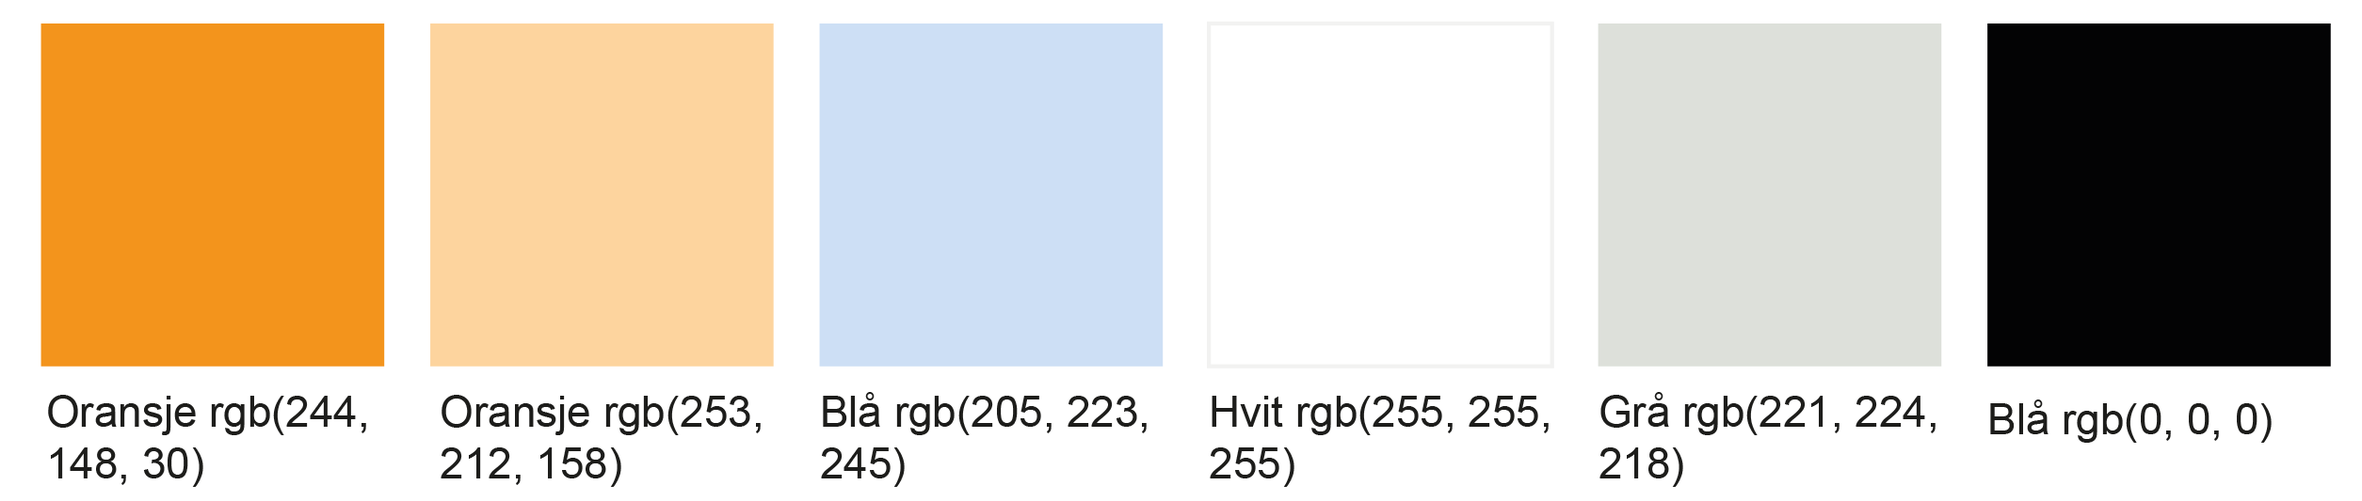
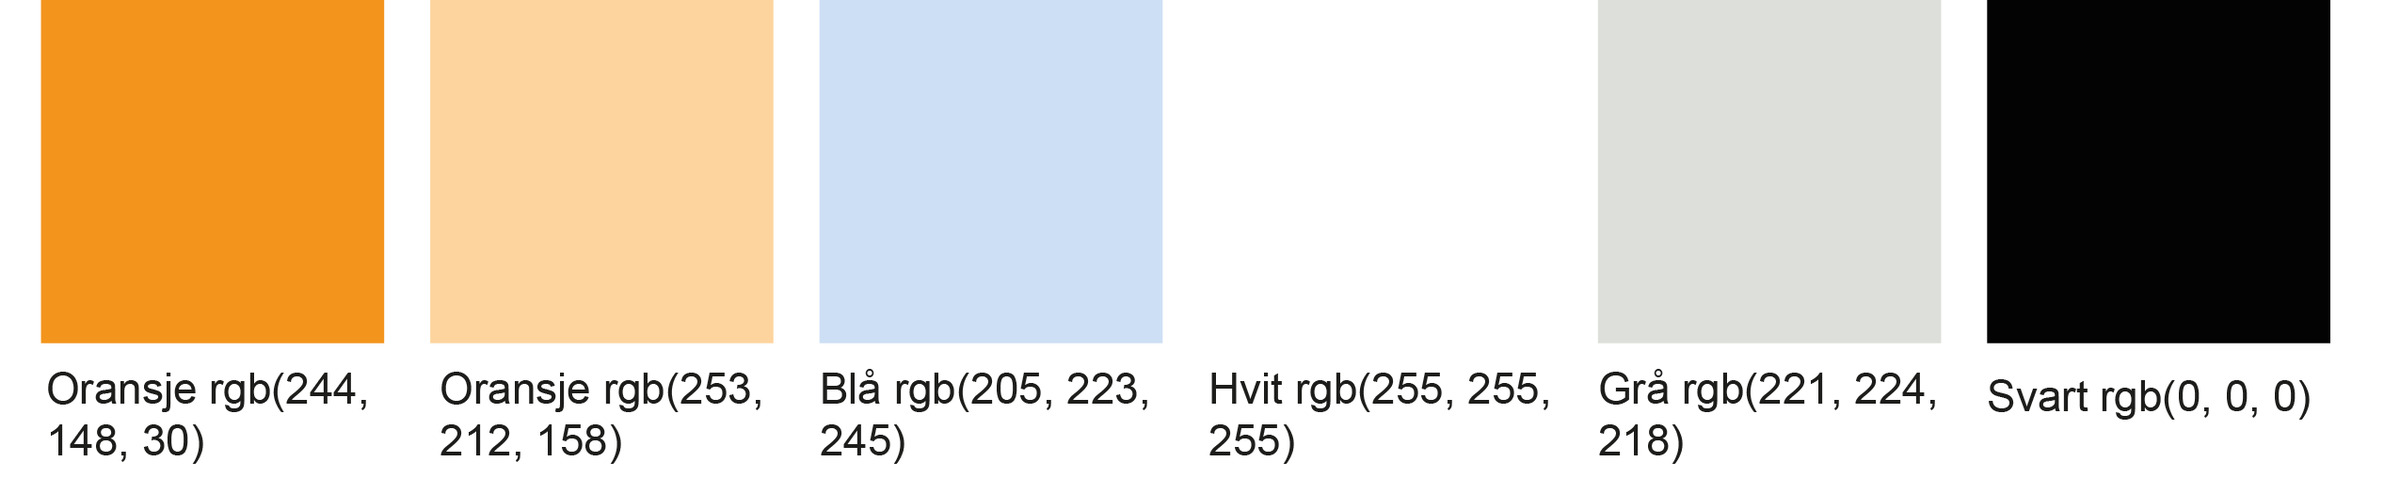
Ferdig

diff --git a/P2/deliverable/p2.html b/P2/deliverable/p2.html
@@ -8,24 +8,25 @@
     <link rel="icon" type="image/png" href="images/P2.png"/>
 </head>
 <body>
+    <header>
+        <h1>Prosjekt P2</h1>
+    </header>
     <div>
         <header>
-            <h1>Prosjekt P2</h1>
+            <h2>Dokumentdetaljer</h2>
         </header>
-        <p class="names"> 
-            Oda Tillman, Sven Herman Holmsen, Maja Meland, Philip Tinius Hansen Crome, 
-            Dag Hara
-        </p>
+        <p class="names"> Oda Tillman, Sven Herman Holmsen, Maja Meland, Philip Tinius Hansen Crome, Dag Hara</p>
+        <p>IT2805 4. oktober 2020</p>
     </div>
     <div>
-        <p>30. september 2020</p>
+        <img id="Johannes" src="images/Johannes.jpg" alt="Bilde av Johannes Haar">
         <header>
             <h2>
                 Administrative detaljer
             </h2>
         </header>
         <p>Klient: Johannes Haar</p>
-        <p>Nettsidenavn: KLPP.</p>
+        <p>Nettsidenavn: <i>KLPP.</i></p>
         <p>Kontaktperson: Johannes Haar</p>
     </div>
 
@@ -35,7 +36,7 @@
                 Formål, mål og brukergruppe
             </h2>
         </header>
-        <p>Johannes Haar har en visjon om å skape en ledende frisørkjede i Trondheim med fokus på kvalitet og service. Målet med nettsiden er å implementere denne visjonen. Den viktigste brukergruppen er kunder. Dette innebærer å lage en enkel og innbydende nettside for førstegangskunder, særlig siden frisørkjeden er i oppstartsfasen. Videre er det viktig at nettsiden klarer å visuelt forsterke profesjonaliteten som herr Haar ønsker å selge til sine kunder. Dette gjør at kunder som ønsker den ekstra kvaliteten tidlig forstår at den fåes på <i>KLPP.</i> Johannes Haar er også interessert i faste kunder. Derfor må nettsiden også ha som formål å være relevant og spennende for personer som har besøkt nettsiden før. Dette skal løses ved at nettsiden viser frem det unike ved <i>KLPP.</i> ved hjelp av bilder og oversiktlighet ved bestillinger. Et annet viktig aspekt er å nå ut til potensielle kolleger. Herr Haar ønsker derfor at nettsiden skal være enkel og naturlig å navigere for fremtidige stylister.</p>
+        <p>Johannes Haar har en visjon om å skape en ledende frisørkjede i Trondheim med fokus på kvalitet og service. Målet med nettsiden er å implementere denne visjonen. Den viktigste brukergruppen er kunder. Dette innebærer å lage en enkel og innbydende nettside for førstegangskunder, særlig siden frisørkjeden er i oppstartsfasen. Videre er det viktig at nettsiden klarer å visuelt forsterke profesjonaliteten som herr Haar ønsker å selge til sine kunder. Dette gjør at kunder som ønsker den ekstra kvaliteten tidlig forstår at den kan fås på <i>KLPP</i>. Johannes Haar er også interessert i faste kunder. Derfor må nettsiden også ha som formål å være relevant og spennende for personer som har besøkt nettsiden før. Dette skal løses ved at nettsiden viser frem det unike ved <i>KLPP.</i> ved hjelp av bilder og oversiktlighet ved bestillinger. Et annet viktig aspekt er å nå ut til potensielle kolleger. Herr Haar ønsker derfor at nettsiden skal være enkel og naturlig å navigere for fremtidige stylister.</p>
     </div>
 
     <div>
@@ -44,10 +45,11 @@
                 Navigasjonsstruktur
             </h2>
         </header>
+        <p>Navigeringsstrukturen på <i>KLPP.</i> sin side er som vist på dette bildet. Hjemmesiden er den første siden som lastes når brukeren kommer inn på klpp.no. Denne hjemmesiden består av en menybar der man kan klikke på navnet på de andre referansesidene man ønsker å besøke. På menybaren er det en knapp for å bestille time, behandlinger, om oss, galleri, søk jobb og COVID-19. Alle disse sidene kan man komme seg til direkte fra hjemmesiden ved et klikk.</p>
+        <p>Denne menybaren vil være synlig øverst på hver eneste referanseside. Derfor vil det være mulig å komme seg fra hvilken som helst referanseside til en annen referanseside kun ved et klikk. Det samme gjelder når man skal komme seg tilbake til hjemmesiden. Klikker man på <i>KLPP.</i>-logoen vil man komme tilbake til hjemmesiden med kun et klikk.</p>
+        <p>Vi har valgt å kun ha klikketstruktur for å komme seg fra en side til en annen fordi dette er en funksjon brukeren enkelt skjønner mønsteret på og derfor blir nettsiden i seg selv enkel å bruke. </p>
         <img id="Navigasjon" src="images/Navigasjonsstruktur.png" alt="Bilde av navigasjonsstrukturen">
-        <p>Navigeringsstrukturen på KLPP. sin siden er som vist på dette bildet. Det vi har tenkt er at når man åpner nettsiden kommer man først till en hovedside. Denne hovedsiden består av en menybar der man kan klikke på navnet på de ulike referansesidene man ønsker å besøke. På menybaren er det en knapp for å bestille time, behandlinger, om oss, galleri, søk jobb og COVID-19. Alle disse sidene kan man komme seg til direkte fra hovedsiden ved et klikk.</p>
-        <p>Denne menybaren vil være synlig øverst på hver eneste referanseside man trykker seg inn på. Derfor vil det være mulig å komme seg fra hvilken som helst referanseside til en annen referanseside kun ved et klikk. Det samme gjelder når man skal komme seg tilbake til hovedsiden. Klikker man på KLPP.-logoen vil man komme tilbake til hovedsiden. </p>
-        <p>Vi har valgt å kun ha klikketstruktur for å komme seg fra en side til en annen fordi dette er en funksjon brukeren enkelt skjønner mønsteret på og derfor blir siden i seg selv enkel å bruke. </p>
+        <i>Figur 1: Navigasjonsstrukturen til KLPP. Det blir mulig å komme seg til hvilken som helst referansesider fra hvilken som helst referanseside.</i>
     </div>
 
     <div>
@@ -57,37 +59,62 @@
             </h2>
         </header>
         <p>I planleggingen av nettsiden kom vi sammen med Herr Haar fram til at vi skulle ha et generelt fokus på minimalisme, design og funksjonalitet. Siden skal dermed være lett å navigere seg gjennom med et design som lar brukeren få seg til de delene de vil uten å bli distrahert av unødvendig rot. Dette vil vi oppnå ved bruk av en oversiktlig menybar, med få velvalgte alternativer, fonter som er lett leselige og rene, mye luft mellom objekter på skjermen og lite sterke farger. I tillegg til å være minimalistisk skal siden være inspirerende, med bruk av mange bilder, både i bakgrunn og som hovedfokus, avhengig av hvilken side du er på.</p>
+        <img src="images/bestill_time1.JPG" alt="Bilde av bestill time">
+        <i>Figur 2: Designet på nettsiden. Dette deisgnet går igjen på alle de seks referansesidene utenom hjemmesiden.</i>
         <p>Under finner man en oversikt over de spesifikke valgene vi har tatt for styling av siden:</p>
         <ul>
-            <li>Font:</li>
+            <li>Font: Helvetica
+                <ul>
+                    <li>Overskriftene i menybaren: 30pt</li>
+                    <li>Logo: 80pt</li>
+                    <li>Overskrift til de ulike sidene: 60pt</li>
+                    <li>Underoverskrift til sidene: 20pt</li>
+                    <li>Body-tekst: 22pt</li>
+                </ul>
+            </li>
             <li>Fargepalett:
                 <ul>
-                    <img src="images/Fargepalett.png" alt="Bilde av fargepalett">
+                    <li>
+                        <img src="images/Fargepalett.png" alt="Bilde av fargepalett">
+                        <i>Figur 3: Fargepalett til nettsiden.</i>
+                        <p></p>
+                    </li>
                     <li>Bakgrunnsfarge: Hvit rgb(255, 255, 255)</li>
                     <li>Bakgrunnsfarge på covid-19 siden: Oransje rgb(253, 212, 158)</li>
                     <li>Tekst: Svart rgb(0, 0, 0)</li>
-                    <li>Linker og overskrifter på hver side: Oransje rgb(244, 148, 30)</li>
+                    <li>Hover: Grå rgb(221, 224, 218)</li> 
+                    <li>Overskrifter på hver side: Oransje rgb(244, 148, 30)</li>
                     <li>Send- og legg-til-knapp: Grå rgb(221, 224, 218)</li>
                     <li>Footer: Blå rgb(205, 223, 245)</li>
                 </ul>
             </li>
-            <li>Body-bredde: 960px</li>
-            <li>Links
+            <li>Body-bredde: 100% av skjermen den vises på</li>
+            <li>Links:
                 <ul>
-                    <li>Logoen: KLPP. vil være mulig å trykke på for å få seg tilbake til hovedsiden. I tillegg vil alle de andre alternativene på menybaren selvsagt være mulige å trykke på for å få seg til sine respektive sider.</li>
+                    <li>Logoen: <i>KLPP.</i> vil være mulig å trykke på for å få seg tilbake til hovedsiden. I tillegg vil alle de andre alternativene på menybaren selvsagt være mulige å trykke på for å få seg til sine respektive sider. Når man hover over de ulike overskriftene i menybaren vil de få en grå farge rgb(221, 224, 218). Overskriften man klikker på vil få den oransje fargen rgb(244, 148, 30) når man er inne på den spesifikke siden. </li>
                 </ul>
-            <li>Menybar--posisjon og utseende
+            </li>
+            <li>Menybar, posisjon og utseende:
                 <ul>
-                    <li>Menybaren vil være plassert på toppen av siden. Siden man er på vil være markert i menybaren ved bruk av en annen farge, enn de andre alternativene. Når man har musepekeren over et alternativ vil også fargen forandre seg subtilt.</li>
+                    <li>Menybaren vil være plassert på toppen av siden med hvit som bakgrunnsfarge. Siden man er på vil være markert i menybaren ved bruk av en oransje farge rgb(244, 148, 30), enn de andre alternativene som er svarte, som vist på bildet. Når man har musepekeren over et alternativ, vil også fargen forandre seg subtilt.</li>
                 </ul>
-            <li>Footer
+            </li>
+            <li>Footer:
                 <ul>
-                    <li>Footeren vil være festet til bunnen av siden og man må scrolle nedover for å se den fra alle sider. </li>
+                    <li>Footeren vil være festet til bunnen av siden og man må scrolle nedover for å se den på alle sider. Her vil det være mulig å finne kontaktinformasjonen til frisørkjeden og informasjon om åpningstider og adresser til hver salong.</li>
                 </ul>
-            <li>Logo
+            </li>
+            <li>Bakgrunnsbilde:
                 <ul>
-                    <li>Logoen vår vil være plassert øverst i venstre side av nettsiden. Til venstre på menybaren. Logoen er minimalistisk i samsvar med resten av designvalgene vi har tatt. </li>
-                </li>
+                    <li> På hver eneste referanseside vil vi ha ulike bilder i bakgrunnen. Disse bildene er festet rett under menybaren og vil derfor bli borte om man scroller seg nedover siden.</li>
+                </ul>
+            </li>
+            <li>Logo:
+                <ul>
+                    <li>Logoen vår vil være plassert øverst i venstre side av nettsiden. Til venstre på menybaren. Logoen er minimalistisk i samsvar med resten av designvalgene vi har tatt.</li>
+                </ul>
+            </li>
+        </ul>
     </div>
 
     <div>
@@ -96,52 +123,93 @@
                 Innhold
             </h2>
         </header>
-        <h4>Hjemmeside (hjemmeside.html)</h4>
-        <img src="images/hjemmeside.JPG" alt="Bilde av hjemmesiden">
+        <p>Det kommer til å være sju separate sider til klpp.no. På alle sidene vil det være en fast menybar der det blir mulig å komme seg til alle de andre referansesidene. Det vil også være en footer nederst på alle html-sidene dersom man scroller nedover på siden vil det i bunn ligge en footer med kontaktinformasjon og informasjon om åpningstider og adresser til de ulike salongene. Denne footern vil være nederst på hver referanseside om man scroller helt ned til bunnen.</p>
+        <p>Hjemmesiden og covid-19 siden vil skille seg litt ut fra de andre referansesidene. Designet på de fem andre sidene enn hjemmesiden vil være relativt likt. Når man åpner sidene vil det være et bakgrunnsbilde feste øverst rett under menybaren med overskriften for den aktuelle siden over bildet. Scroller man nedover på siden vil ikke dette følge med siden slik som menybaren vil.</p>
+        
+        <h3>Hjemmeside (hjemmeside.html)</h3>
         <p>Hjemmesiden er den første siden som lastes når brukeren kommer inn på klpp.no. Sentralt på siden vil det være en knapp for bestilling av timer. I bakgrunnen av siden vil det være et slideshow med bilder av forskjellige frisyrer. Siden kan også nås ved å trykke på logoen øverst i venstre hjørne.</p>
+<<<<<<< HEAD
+        <p>Som sagt skal det her være en bestill time knapp, men utover dette vil ikke siden ha noen funksjonalitet. Hjemmesiden skal være minimalistisk, fange oppmerksomheten til brukeren og inspirere dem til å utforske mer av nettstedet. Bildene i bakgrunnen vil gjøre den mer dynamisk og bidra til å holde på oppmerksomheten til brukeren. Bildene vil være grået ut. Det er viktig at det ikke er mye rot på denne siden, sånn at man heller kan fokusere på å få seg til de delene av nettstedet man har bruk for.</p>
+        <p>Slideshowet skal oppnås ved hjelp av Javascript. Bildet som er i fokus skal være midtstilt og dekke cirka 60% av bakgrunnen, med de andre bildene på hver side. Bildene som ikke er i midten, kommer dermed til å henge ut av skjermen.</p>
+        <img src="images/hjemmeside.JPG" alt="Bilde av hjemmesiden">
+        <i>Figur 4: Bilde av forsiden. Holder man musa over en av sidene i menybaren vil teksten bli oransje.</i> 
+=======
         <p>Som sagt skal det her være en bestill time knapp, men utover dette vil ikke siden ha noen funksjonalitet. Hjemmesiden skal være minimalistisk, fange oppmerksomheten til brukeren og inspirere dem til å utforske mer av nettstedet. Bildene i bakgrunnen vil gjøre den mer dynamisk og bidra til å holde på oppmerksomheten til brukeren. Bildene vil være grået ut. Det er viktig at det ikke er mye rot på denne siden, sånn at man heller kan fokusere seg på å få seg til de delene av nettstedet man har bruk for.</p>
         <p>Slideshowet skal oppnås ved hjelp av Javascript. Bildet som er i fokus skal være midtstilt og dekke cirka 60% av bakgrunnen, med de andre bildene på hver side. Bildene som ikke er i midten kommer dermed til å henge ut av skjermen.
         </p>
+>>>>>>> 28f003aea12f6d82e5035ed5cda7e2a6c0dff673
 
-        <h4>Bestill time (bestill_time.html)</h4>
+        <h3>Bestill time (bestill_time.html)</h3>
+        <p>Denne siden skal være en enkel utformet form som gjør det lett å booke time. Nettsiden er hovedfokuset på referansesiden, men den skal også kunne aksesseres fra alle de andre nettsidene. Selve nettsiden skal inneholde utfyllingsbokser som gjør det naturlig for brukeren å føre inn. Kunder må starte med å fylle inn kontaktinformasjonen som fornavn, etternavn, e-post og mobilnummer. Videre på siden er det fire bokser der det er mulig å velge ulike salonger, behandlinger, datoer og frisører.</p>
         <img src="images/bestill_time1.JPG" alt="Bilde av bestill time">
+        <i>Figur 5: Slik vil bestill_time.html siden se ut når den åpnes.</i>
+        <p></p>
         <img src="images/bestill_time2.JPG" alt="Bilde av bestill time">
+        <i>Figur 6: Scroller man litt lengre ned ser man alle utfyllingsboksene. Det som mangler på dette bildet er en checkbox som bekrefter at man har forstått Corona-restriksjonene for KLPP.</i>
+        <p>Først blir kunden nødt til å åpne boksen der man velger salong. Her huker kunden av for salongen den ønsker, Tiller, Lade eller Solsiden. Videre klikker kunden på boksen behandlinger. Da vil det åpnes et vindu med en liste over de ulike alternativene for behandlinger som salongene tilbyr, kategorisert på samme måte som på siden for behandlinger. Her blir kunden nødt til å huke av for hva slags behandlinger personen ønsker. Prisen på behandlingene som hukes av blir automatisk lagt til i sluttsummen slik at kunden alltid kan se hvor mye frisørbesøket kommer til å koste.</p>
+        <p>Når de ønskede behandlingene er valgt kan estimert tid på frisørbesøket beregnes slik at kunden også kan få opp hvilke dager og tider som er ledig. Klikker kunden så på boksen med dato vil en kalender åpnes med en oversikt over ledige dager. Klikker man igjen på den ønskede dagen vil ledige tider for den valgte dagen dukke opp slik at man kan velge eksakt dato og tid selv. Etter å ha valgt frisørtime kan man også åpne den siste boksen hvor det blir mulig å huke av for hvilken frisør man ønsker seg for timen.</p>
+        <p>Før timen kan bekreftes er det viktig at kunden huker av for at den har lest og forstått bedriftens retningslinjer for covid-situasjon. Her vil det linkes til covid-nettsiden, og ved klikk på denne linken åpnes siden i et nytt vindu.</p>
         <img src="images/bestill_time3.JPG" alt="Bilde av bestill time">
+        <i>Figur 7: Et liknende vindu som vist under dato vil åpne seg under hver boks dersom man trykker på boksene.</i>
+        <p>Når alt dette er gjort og man trykker send vil det komme et pop-up vindu som bekrefter din bestilling.</p>
         <img src="images/bestill_time4.JPG" alt="Bilde av bestill time">
-        <p>Denne siden skal være en enkel utformet form som gjør det lett å booke time. Nettsiden er hovedfokuset på hjemmesiden, men den skal også kunne aksesseres fra alle de andre nettsidene. Selve nettsiden skal inneholde utfyllingsbokser og spørsmål som gjør det naturlig for brukeren å føre inn. Det er viktig at det første spørsmålet som kommer handler om bedriftens covid-situasjon og at kunden må trykker på en check box som sier at man har lest og forstått de nye retningslinjene. I dette spørsmålet så skal covid-nettsiden linkes, og ved klikk så skal det åpnes i et nytt vindu. Deretter får man spørsmål der noen må utfylles mens andre er valgfrie. Kunder må fylle inn kontaktinformasjonen navn og mobilnummer. Deretter kommer det valgfrie spørsmål om hvilken salong eller frisør man ønsker. Til sist kommer spørsmål om dato og tid, og kunden som utfyller formet må få vite at valgene på de valgfrie avgjørelsene(salong, frisør) påvirker mulighetene for tidspunkter. Til sist er det valgfritt å legge inn en kommentar om selve klippetimen. Denne kommentaren må ha en begrensning på lengde da det skal være kort og konsist. </p>
+        <i>Figur 8: Etter at man har sendt inn bestillingene får man en bekreftelse som vil se ut som dette.</i>
 
-        <h4>Behandlinger (behandlinger.html)</h4>
+        <h3>Behandlinger (behandlinger.html)</h3>
+        <p>Behandlinger er en side med oversikt over de forskjellige behandlingene <i>KLPP.</i> tilbyr og kan nås fra alle andre sider gjennom oversiktsmenyen.</p>
+        <p>Siden vil bestå av flere deler: Hårklipp, Farge, Skjegg og andre behandlinger. For hver av delene vil det være en overskrift, et bilde som illustrerer den relevante behandlingen, og informasjon om hva som inngår i behandlingen i tillegg til priser. For hver del vil bildet veksle mellom å være på høyre og venstre side. Overskriften skal være midtstilt, vertikalt stilt med toppen av bildene og overlappe dem. Til siden for bildene vil det være en punktliste som er ca. like høy som bildet, hvor all informasjonen om den relevante behandlingsmåten blir beskrevet.</p>
         <img src="images/Behandlinger1.JPG" alt="Bilde av behandlinger">
-        <p>Behandlinger er en side med oversikt over de forskjellige behandlingene KLPP. tilbyr og kan nås fra alle andre sider gjennom oversiktsmenyen.</p>
+        <i>Figur 9: Slik vil behandlinger.html siden se ut når den åpnes.</i>
+        <p></p>
         <img src="images/Behandlinger2.JPG" alt="Bilde av behandlinger">
+<<<<<<< HEAD
+        <i>Figur 10: Scroller man nedover finner man oversikt over de ulike kategoriene, hårklipp, farge, skjegg og andre behandlinger.</i>
+       
+        <h3>Om oss (om_oss.html)</h3>
+        <p>Om oss er en side der man skal finne informasjon om historien til frisørkjeden, de ulike salongene og en oversikt over de ulike ansatte i frisørkjeden. Det første som dukker opp på denne siden er litt av historien bak frisørkjeden og litt om Johannes Haars visjon for salongene, samt et bilde og litt informasjon om Johannes Haar selv. Her vil det også være mulig å finne kontaktinformasjon til frisørkjeden.</p>
+=======
         <p>Siden vil bestå av flere deler: Klipp, Farge, Skjegg og andre behandlinger. For hver av delene vil det være en overskrift, et bilde som illustrerer den relevante behandlingen, og informasjon om hva som inngår i behandlingen i tillegg til priser. For hver del vil bildet veksle mellom å være på høyre og venstre side. Overskriften skal være midtstilt, vertikalt stilt med toppen av bildene og overlappe dem. Til siden for bildene vil det være en punktliste som er ca like høy som bildet, hvor all informasjonen om den relevante behandlingsmåten blir beskrevet.
         </p>
 
         <h4>Om oss (om_oss.html)</h4>
+>>>>>>> 28f003aea12f6d82e5035ed5cda7e2a6c0dff673
         <img src="images/Om_oss1.JPG" alt="Bilde av om oss">
-        <p>Om oss er en side der man skal finne informasjon om historien til frisørkjeden, de ulike salongene og en oversikt over de ulike ansatte i frisørkjeden. Det første som dukker opp på denne siden er litt av historien bak frisørkjeden og litt om Johannes Haars visjon for salongene, samt et bilde og litt informasjon om Johannes Haar selv.</p>
-        <img src="images/Om_oss2.JPG" alt="Bilde av om oss">
+        <i>Figur 11: Slik ser om_oss.html siden se ut når den åpnes.</i>
         <p>Scroller man litt videre nedover på siden vil man finne en oversikt over de ulike ansatte. Johannes Haar ønsker ikke at det skal være faste frisører som jobber i hver salong, men at alle de ansatte skal jobbe på alle salongene i Trondheim. Derfor vil dette være en oversikt over alle de ansatte, litt kort informasjon om dem, et bilde av hver enkelt frisør og informasjon om hva slags type frisør hver enkelt er og deres spesialiteter.</p>
+        <img src="images/Om_oss2.JPG" alt="Bilde av om oss">
+        <i>Figur 12: Scroller man litt ned finner man en oversikt over de ansatte.</i>
+        <p>Videre nedover på siden har Johannes et ønske om at kundene enkelt skal finne frem til beliggenheten til de ulike salongene. Derfor tenker vi å sette inn et kart der alle frisørsalongene er markert på kartet. Dersom man holder musen over en av frisørsalongene på kartet og trykker vil man automatisk hoppe litt lengre ned på siden til mer informasjon om akkurat den ønskede salongen, enten Tiller, Lade og Solsiden.</p>
+        <p>Denne informasjonen blir da også mulig å finne lengre ned på siden dersom man scroller seg videre nedover. Der vil det være mulig å finne åpningstider og adresser for hver enkelt salong. Vi tenker også å sette inn bilder av fasadene til hver enkelt salong slik at det skal være enklere for nye kunder å finne frem.</p>
         <img src="images/Om_oss3.JPG" alt="Bilde av om oss">
-        <p>Videre nedover på siden har Johannes et ønske om at kundene enkelt skal finne frem til beliggenheten til de ulike salongene. Derfor tenker vi å sette inn et kart der alle frisørsalongene er markert på kartet. Dersom man holder musen over en av frisørsalongene på kartet og trykker vil man automatisk hoppe litt lengre ned på siden til mer informasjon om akkurat den ønskede salongen, enten Tiller, Solsiden og Lade.</p>
-        <p>Denne informasjonen blir da også mulig å finne lengre ned på siden dersom man scroller seg videre nedover. Der vil det være mulig å finne åpningstider og adresser for hver enkelt salong. Vi tenker også å sette inn bilder av fasadene til hver enkelt salong slik at det skal være enklere for nye kunder å finne frem. </p>
-
-        <h4>Søk jobb (søk_jobb.html)</h4>
+        <i>Figur 13: Scroller man enda lengre ned finner man informasjon om de ulike salongene. Først et kart, så litt mer informasjon om hver salong, Tiller, Lade og Solsiden.</i>
+       
+        <h3>Søk jobb (søk_jobb.html)</h3>
+        <p>Siden <i>KLPP.</i> er en helt nyoppstartet frisørkjede er Johannes fremdeles på jakt etter flere ansatte. På denne siden ønsker han derfor å fortelle litt om hvordan det er å jobbe som frisør i <i>KLPP.</i> og hvilke forventninger han har til sine ansatte.</p>
         <img src="images/Søk_jobb1.JPG" alt="Bilde av søk jobb">
+        <i>Figur 14: Slik vil nesten søk_jobb.html siden se ut når den åpnes. Johhanes Haar ønsker å legge til litt informasjon om stillingen som er utlyst over der man kan sende inn søknad.</i>
+        <p>Om man skal sende inn en søknad skriver man fornavn, etternavn, e-post og telefonnummer direkte inn i feltene på sidene. Søknaden skriver man også direkte inn på siden. CV blir det mulig å laste opp på siden. Som på siden for å bestille time vil det også her komme opp et pop-up vindu som bekrefter din søknad.</p>
         <img src="images/Søk_jobb2.JPG" alt="Bilde av søk jobb">
+        <i>Figur 15: Scroller man litt nedover får man opp alle feltene man skal fylle inn.</i>
+        <p></p>
         <img src="images/Søk_jobb3.JPG" alt="Bilde av søk jobb">
-        <p>Siden <i>KLPP.</i> er en helt nyoppstartet frisørkjede er Johannes fremdeles på jakt etter flere ansatte. På dennes siden vil det være mulig å fylle inn fornavn, etternavn, e-post, telefonnummer og srive en søknad. I tillegg vil det være mulig å laste opp en CV på denne siden. Etter at man har sendt inn søknad vil det komme opp en pop-up med bekreftelse om at søknaden er mottatt.</p>
+        <i>Figur 16: Trykker man på send vil man få opp en bekreftelse som denne.</i>
         
-        <h4>Galleri (galleri.html)</h4>
+        <h3>Galleri (galleri.html)</h3>
+        <p>Dette skal være en side med bilder tatt på de ulike salongene til <i>KLPP.</i> Her er det både bilder av resultater av ulike behandlinger og bilder av frisørene i aksjon. Her kan kundene gå inn å se hva frisørene kan og hente inspirasjon til hva som kan gjøres hos <i>KLPP.</i> Her vil det brukes et grid der det er tre bilder i bredden, men med ulik høyde. Dersom man ønsker å se bildet i full størrelse klikker man på thumnailen og det vil komme et pop-up vindu med det ønskede bildet i full størrelse. For at det ikke skal bli for mye forstyrrelser rundt når man ser på det ene bildet tenker vi at bakgrunnen blir litt grået ut.</p>
         <img src="images/Galleri1.JPG" alt="Bilde av galleri">
+        <i>Figur 17: Slik vil galleri.html siden se ut når den åpnes.</i>
+        <p></p>
         <img src="images/Galleri2.JPG" alt="Bilde av galleri">
-        <p>Dette skal være en side med bilder av resultater av  de ulike frisyrene og behandlingene som har blitt gjort hos <i>KLPP.</i> Her kan kundene gå inn å se hva frisørene kan og hente inspirasjon til hva de kan gjøre hos <i>KLPP.</i></p>
+        <i>Figur 18: Scroller man videre vil det bare være mer bilder. Klikker man på en av bildene får man det i full størrelse.</i>
 
-        <h4>COVID-19 (covid_19.html)</h4> 
-        <img src="images/Covid1.JPG" alt="Bilde av covid-19">
+        <h3>COVID-19 (covid_19.html)</h3> 
         <p>Klipping er en service med menneskelig kontakt. Dette gjør at frisørkjeden er direkte påvirket av befolkningens smitte og myndighetenes restriksjoner. Derfor er det viktig at denne nettsiden viser oppdatert informasjon om hvordan covid-situasjonen påvirker bedriften i nåtid samt hvordan det kan bli fremover. Denne nettsiden må også vise når nettsiden sist ble oppdatert for å trygge besøkende og vise at bedriften er årvåken og følger situasjonen tett.</p>
+        <p>Nettsiden skal vise hva bedriften gjør for å trygge sine kunder. Samtidig så skal nettsiden informere om hva kunder må gjøre for å oppholde seg på bedriftens områder. For at klippetimer skal skje er det viktig at begge parter samarbeider for at servicen overlever krisesituasjonen. Dette samarbeidet er tuftet på tillit, og en informativ og enkel nettside med viktigste informasjon først er med på å skape denne tilliten.</p>
+        <img src="images/Covid1.JPG" alt="Bilde av covid-19">
+        <i>Figur 19: Slik vil covid_19.html siden se ut når den åpnes. En annen bakgrunnsfarge enn resten for å fremheve viktigheten med denne siden.</i>
+        <p></p>
         <img src="images/Covid2.JPG" alt="Bilde av covid-19">
-        <p>Nettsiden skal vise hva bedriften gjør for å trygge sine kunder. Samtidig så skal nettsiden informere om hva kunder må gjøre for å oppholde seg på bedriftens områder. For at klippetimer skal skje er det viktig at begge parter samarbeider for at servicen overlever krisesituasjonen. Dette samarbeidet er tuftet på tillit, og en informativ og enkel nettside med viktigste informasjon først er med på å skape denne tilliten.</p>  
+        <i>Figur 20: Scroller man nedover på alle sidene er det en footer som vil slik ut, med kontaktinformasjon og informasjon om hver salong.</i>
     </div>
 
     <div>
@@ -151,19 +219,19 @@
             </h2>
         </header>
 
-        <h4>random_images.js</h4>
+        <h3>random_images.js</h3>
         <p>Ved hjelp av en javascript funksjon skal bildet i bakgrunnen på forsiden tilfeldig rotere gjennom et galleri. Ved å se et utvalg av forskjellige frisyrer og stiler vil brukeren forhåpentligvis bli mer inspirert til å bestille en time hos KLPP. og dette kan deretter lett utføres ved å trykke på bestill time knappen på samme side. Javascriptet vil bruke random math til å velge blant de forskjellige bildene i galleriet.</p>
+        
+        <h3>priskalkulator.js</h3>
+        <p>I bestill time delen av siden får man blant annet opp en liste over de forskjellige behandlingene KLPP. tilbyr. Når man huker av de forskjellige alternativene skal siden, ved hjelp av en javascript funksjon, gi brukeren totalprisen live under alternativene. Dette vil hjelpe til med å etablere tillit mellom brukere og frisøren, og vil gi siden et mer profesjonelt preg.</p>
 
-        <h4>image_size.js</h4>
+        <h3>image_size.js</h3>
         <p>I Galleri-siden skal det være en javascript funksjon som lager et pop-up vindu som viser full størrelse på bilde når thumbnailen blir klikket. På galleri-siden vil det være mange bilder som skal inspirere kunder til ulike hårfrisyrer og behandlinger. For å vise variasjon er det ønskelig med flere bilder i mindre format så det blir plass til flere bilder på nettsiden. Når et bilde er valgt til å vise full størrelse er det ønskelig at det er en grået bakgrunn for å fremheve pop-up vinduet.</p>
         
-        <h4>priskalkulator.js</h4>
-        <p>I bestill time delen av siden får man blant annet opp en liste over de forskjellige behandlingene KLPP. tilbyr. Når man huker av de forskjellige alternativene skal siden, ved hjelp av en javascript funksjon, gi brukeren totalprisen live under alternativene. Dette vil hjelpe til med å etablere tillit mellom brukere og frisøren, og vil gi siden et mer profesjonelt preg.</p>
-        
-        <h4>bestillingsbekreftelse.js</h4>
+        <h3>bestillingsbekreftelse.js</h3>
         <p>Når bruker fyller inn en bestilling er det viktig at man får en feedback på at nettsiden har akseptert søknaden. Denne bekreftelsen skal bli vist til brukeren slik at brukeren er trygg på at bestillingen har gått gjennom systemet. Når brukeren har fylt ut bestillingssiden og trykker bestill så skal nettsiden refreshe og vise en tom bestillingsside. Samtidig skal det komme et pop-up vindu som viser at bestillingen er bekreftet. En grået bakgrunn er ønskelig for å tydeliggjøre pop-up vinduet. Når brukeren lukker vinduet kan man starte på en ny bestilling siden nettsiden er tilbakestilt til normaltilstanden (default).</p>
-        
-        <h4>søknadsbekreftelse.js</h4>
+
+        <h3>søknadsbekreftelse.js</h3>
         <p>Når en jobbsøker fyller inn formet er det viktig at det blir gitt tydelig feedback på at KLPP. har mottatt søknaden. Denne bekreftelsen er viktig fordi det gir søkeren en trygghet på at innsendingen er akseptert. Ved innsending så skal siden tilbakestilles til normaltilstanden, og det skal komme et pop-up vindu som sier at innsendingen er mottatt. Det skal også være en grået bakgrunn for å fremheve pop-up vinduet.</p>
 
     </div>
@@ -175,7 +243,7 @@
         </header>
         <p>Den følgende organisatoriske planen viser hovedpunktene av hva vi skal lage. Merk at vi vet foreløpig ikke hvor mange bilder vi skal hente til vårt galleri så vi har satt en tentativ liste på 30 bilder. Dette kan endres. Filmappene og filene er logisk delt inn og det er satt av personer til de ulike oppgavene med en foreløpig frist for hver oppgave.</p>
         <header>
-            <h4>Organisasjonsskjema</h4>
+            <h3>Organisasjonsskjema</h3>
         </header>
         <ul>
             <li>hjemmeside.html</li>
@@ -240,7 +308,7 @@
             </li>
         </ul>
         <header>
-            <h4>Arbeidsfordeling og frist</h4>
+            <h3>Arbeidsfordeling og frist</h3>
         </header>
         <table>
             <tr>

diff --git a/P2/deliverable/p2.css b/P2/deliverable/p2.css
@@ -1,10 +1,10 @@
 * {
-    background-color: #eeeeee
+    background-color: #ebebeb
 
 }
 
 body, div, header{
-    max-width: 700px;
+    max-width: 800px;
     line-height: 1.4;
     text-align: justify;
     margin: auto;
@@ -30,4 +30,13 @@ footer {
 
 table, th, td {
     border: 1px solid #454545;
+}
+
+
+#Johannes {
+    width: 130px;
+    float: right;  
+    margin: 30%;
+    margin-top: 10px;
+    margin-bottom: 0px;
 }
